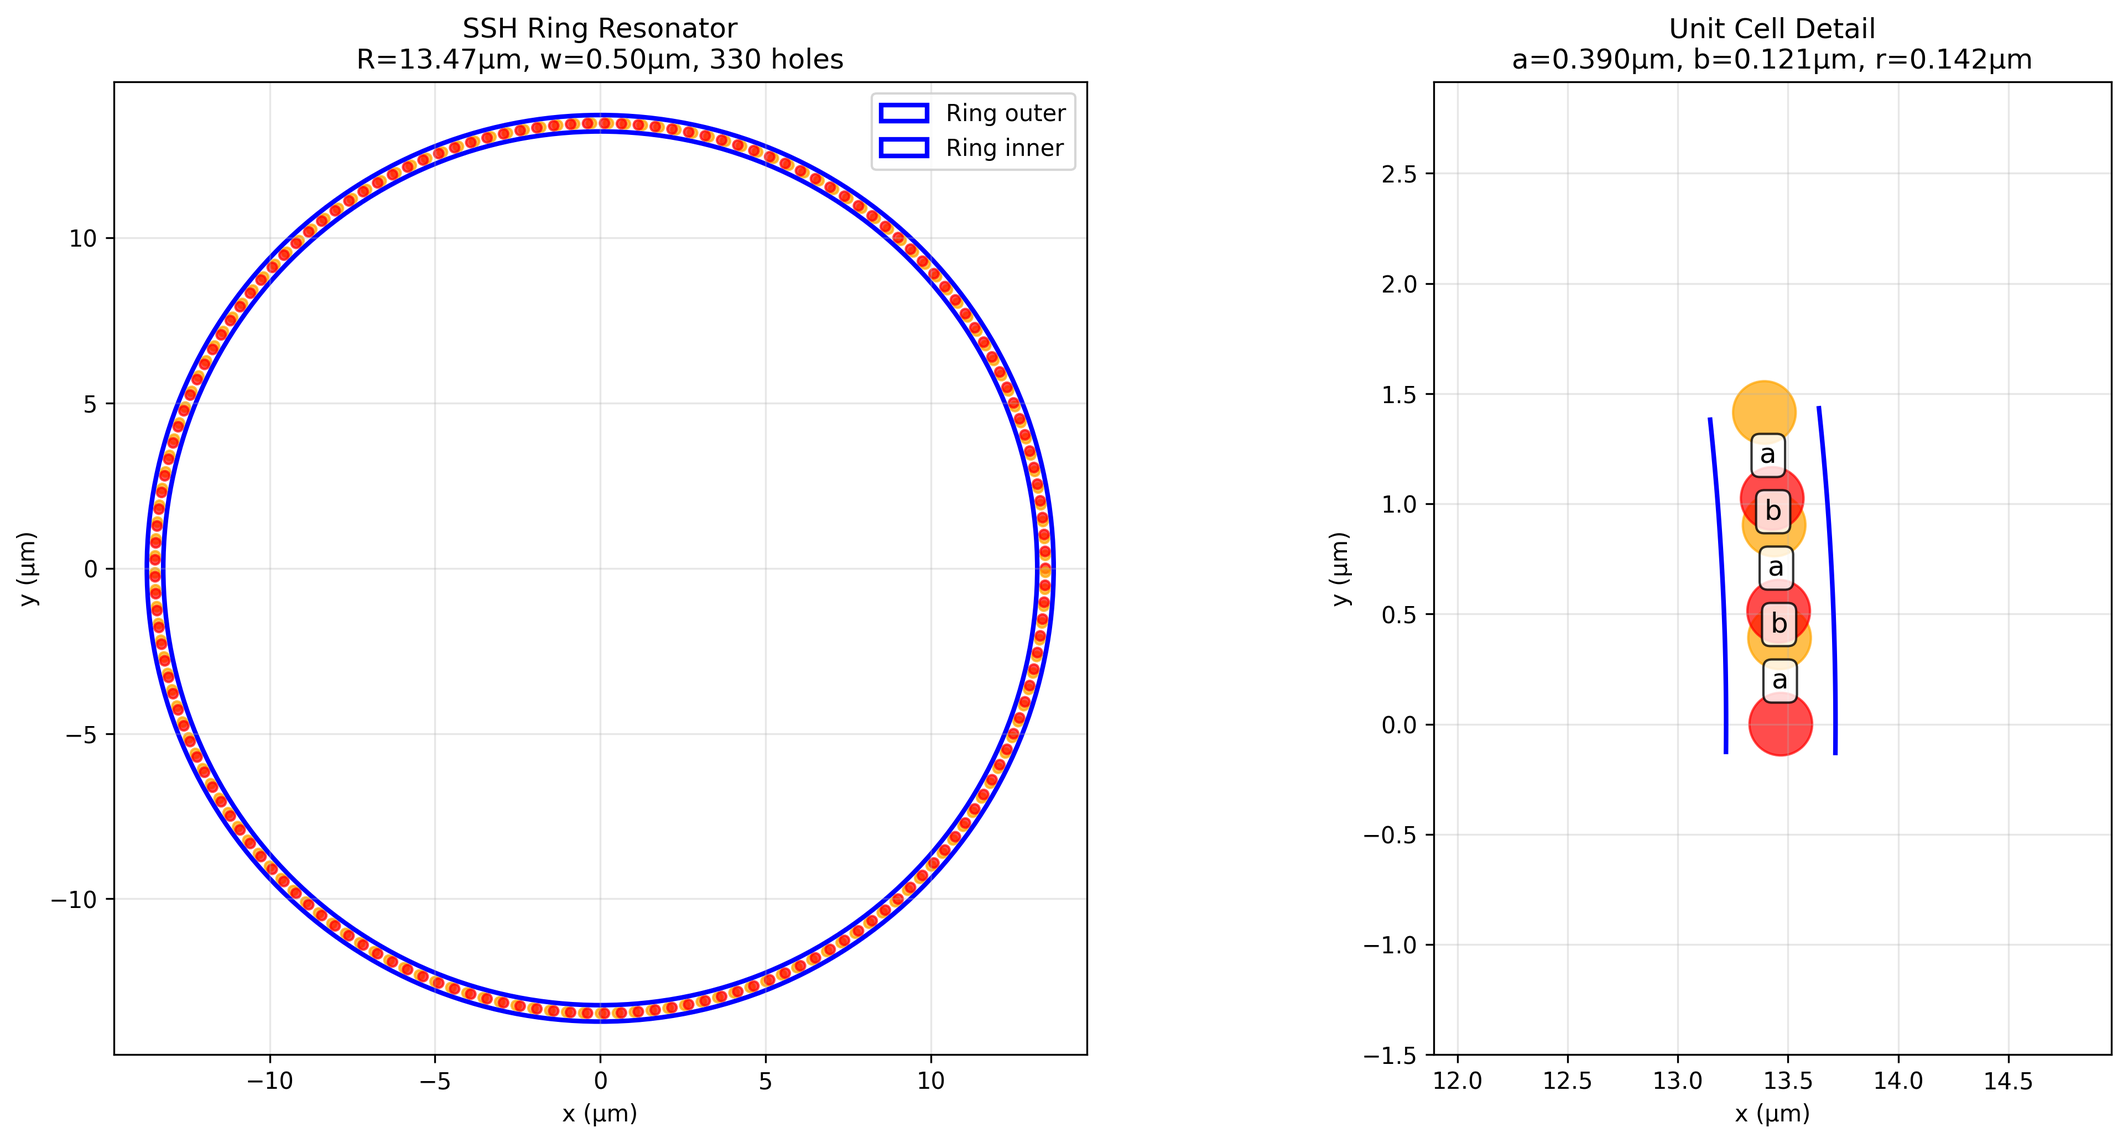
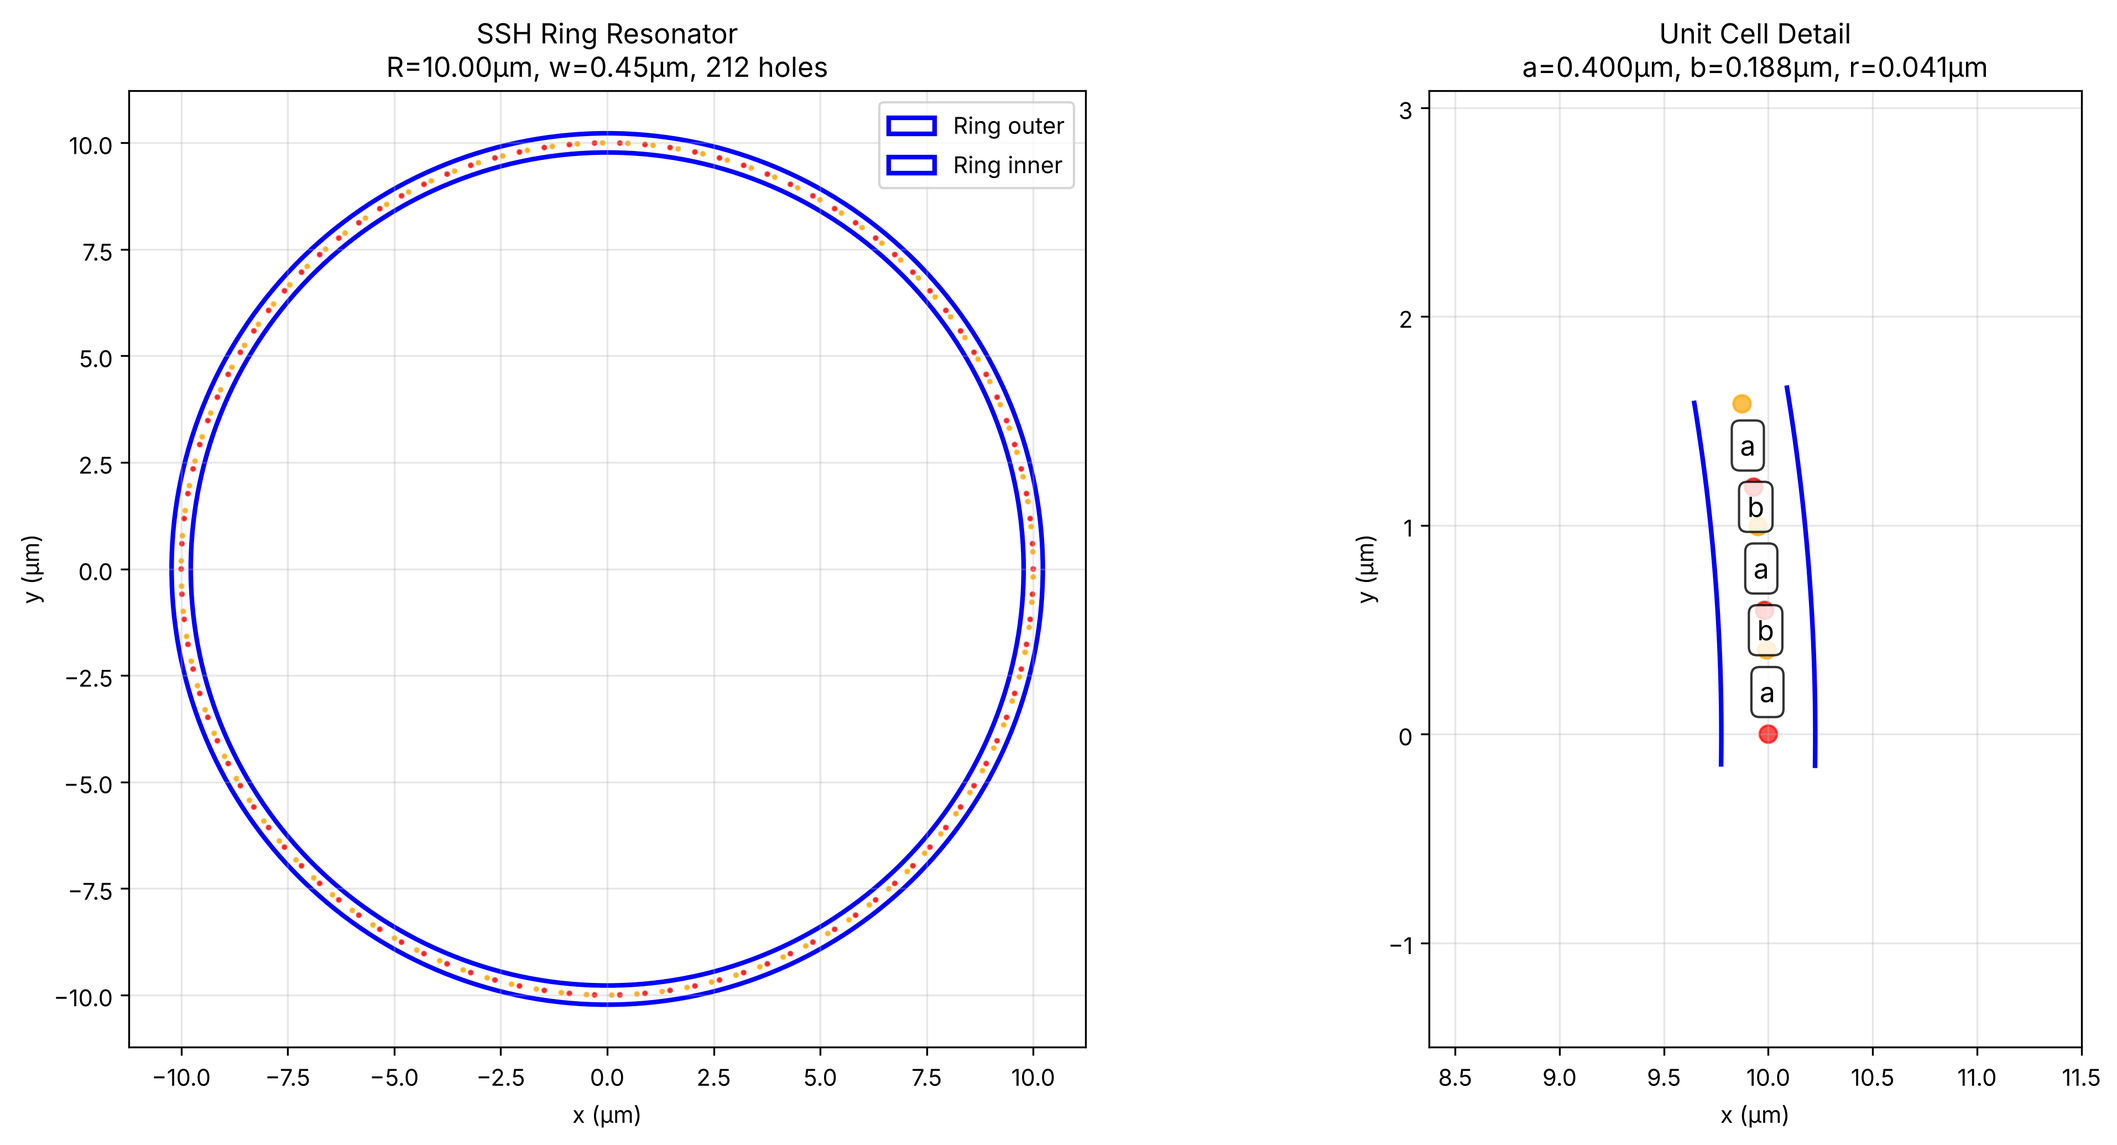
Rewrite optimization report from the regenerated runs
Replace the 2025 report, whose headline numbers came from an untracked
run with proxy objectives and overlapping-hole designs, with the full
seeded NSGA-III run and the 120-evaluation Bayesian run:

- Executive summary and the five recommended designs taken from
  results/multi_obj_20261016_015430 (with hole gap b - 2r per design)
- Geometry and convergence figures and numbers from
  results/run_20261016_015430
- docs/images regenerated: trade-off analysis, best-design geometry,
  optimization progress
- States that both optimizers use different analytical stand-in models
  (not MEEP), and flags the radiation term in evaluate_design_mock,
  which penalizes larger rings contrary to its comment
- Methodology now describes the settings actually used; references
  point at the docs/ siblings instead of broken ../ paths

Every quantitative claim was checked against the result files.

Claude-Session: https://claude.ai/code/session_01544Sc9gDdo8SZHhCwPpYMo

diff --git a/docs/OPTIMIZATION_REPORT.md b/docs/OPTIMIZATION_REPORT.md
@@ -1,12 +1,18 @@
 # Optimization Results Report
 
-> **Note (2026-10-10): these results predate two fixes and need regenerating.**
-> 1. Every design space used here let neighboring holes overlap (`b <= 2r`; `a` and `b` are center-to-center spacings), so the reported designs cannot be fabricated. Config bounds now keep a gap of at least the minimum feature size.
-> 2. The multi-objective run never received the simulator's full objectives, so the Q-factor, bandgap and mode volume below are proxies: Q = score + 20000, bandgap = a - b, mode volume = pi * r^2.
->
-> All values also come from the analytical mock model, not MEEP. See `docs/HANDOFF.md`.
+Results from multi-objective (NSGA-III) and single-objective (Bayesian) optimization of topological
+photonic crystal ring resonators, regenerated on 2026-10-16 at commit `92a9964`. All runs are seeded
+(`seed: 123`) and replay exactly.
 
-This report presents the results from multi-objective optimization of topological photonic crystal ring resonators using the NSGA-III algorithm.
+**What these numbers are.** No electromagnetic simulation is involved. Both optimizers score designs
+with analytical stand-in models in `src/simulation_wrapper.py`, and the two use **different** models:
+NSGA-III uses `evaluate_design_mock`, Bayesian optimization uses `_simulate_physics_model`. Their Q
+values are not on a common scale. The trade-offs below show how those models behave; real Q-factors
+need the MEEP integration (see `docs/HANDOFF.md`).
+
+Every design reported here is fabricable under the project's rule: `a` and `b` are center-to-center
+hole spacings, and the gaps `a − 2r`, `b − 2r` and the edge clearance `(w − 2r)/2` must exceed the
+0.05 µm minimum feature size.
 
 ---
 
@@ -24,20 +30,25 @@ This report presents the results from multi-objective optimization of topologica
 
 ## Executive Summary
 
-The framework successfully identified Pareto-optimal designs across four competing objectives:
+NSGA-III run on `configs/multi_objective_v1.yaml` (population 40, 50 generations): 2,000 designs
+evaluated, 1,867 feasible, 19 on the Pareto front (`results/multi_obj_20261016_015430/`).
 
-| Metric | Best Achieved | Design Type |
-|--------|---------------|-------------|
-| Q-factor | 55,700 | Maximum Q-Factor Design |
-| Robustness Ratio | 165.7 | Maximum Robustness Design |
-| Bandgap Size | 0.366 | Maximum Topological Protection |
-| Mode Volume | 0.008 | Minimum Mode Volume Design |
+| Metric | Best on Pareto front | Design |
+|--------|----------------------|--------|
+| Q-factor (mean over disorder) | 37,361 ± 766 | Maximum Q-factor |
+| Robustness ratio (Q / std) | 110.3 | Maximum robustness |
+| Bandgap size (model units) | 24.18 | Maximum topological protection |
+| Mode volume (model units) | 0.0940 | Minimum mode volume |
+
+No single design is best on more than one of these: the maximum-Q design has the smallest bandgap on
+the front, and the maximum-bandgap design has close to the lowest Q.
 
 ---
 
 ## Parameter Space Exploration
 
-The framework explored multiple design regimes to understand the relationship between design parameters and performance metrics.
+Six Bayesian optimization runs explore different design regimes. Details, the full results table and
+an explanation of what drives each score are in [EXPLORATION_RESULTS.md](EXPLORATION_RESULTS.md).
 
 <div align="center">
 
@@ -47,25 +58,18 @@ The framework explored multiple design regimes to understand the relationship be
 
 </div>
 
-*This visualization compares different exploration strategies across the design space. The six panels show:*
+- **Top row**: best score, dimerization ratio (a/b) and ring radius of each run's best design
+- **Bottom row**: best hole radius, best-so-far score per evaluation, and the best (a, b) pairs
 
-- **Top-left**: Best scores achieved by each exploration type
-- **Top-center**: Optimal dimerization ratios (a/b) for each strategy
-- **Top-right**: Optimal ring sizes discovered
-- **Bottom-left**: Optimal hole sizes for each regime
-- **Bottom-center**: Convergence comparison showing optimization progress over iterations
-- **Bottom-right**: Scatter plot of optimal (a, b) parameter combinations
-
-**Key Findings:**
-- Extreme dimerization and large ring configurations achieve the best objective scores
-- Strong correlation between dimerization ratio and Q-factor performance
-- Fabrication-limited designs show more constrained parameter choices
+**Key findings (stand-in model):**
+- The extreme-dimerization run scores highest (23,344, a/b = 4.62), more than 8,000 above any other run.
+- Ring radius goes to the lower or upper bound depending on the period a + b; the model's slope in R
+  changes sign near a + b ≈ 0.63 µm.
+- Hole radius and waveguide width barely affect the score within the fabricable range.
 
 ---
 
 ## Multi-Objective Trade-off Analysis
-
-The NSGA-III algorithm discovers Pareto-optimal trade-offs between competing physics objectives.
 
 <div align="center">
 
@@ -75,213 +79,141 @@ The NSGA-III algorithm discovers Pareto-optimal trade-offs between competing phy
 
 </div>
 
-*This six-panel visualization reveals the fundamental trade-offs in topological photonic crystal design:*
-
 ### Panel Descriptions
 
-| Panel | X-Axis | Y-Axis | Color Scale | Insight |
-|-------|--------|--------|-------------|---------|
-| Top-left | Average Q-factor | Q-factor Std Dev | Dimerization Ratio | Performance vs robustness trade-off |
-| Top-center | Bandgap Size | Average Q-factor | Ring Radius | Lattice vs radiation confinement |
-| Top-right | Mode Volume | Average Q-factor | Hole Radius | Purcell factor optimization |
-| Bottom-left | Dimerization Ratio | Robustness Ratio | - | Thesis baseline comparison |
-| Bottom-center | Ring Radius | Average Q-factor | - | Size vs performance relationship |
-| Bottom-right | Parameters (a,b,r,R,w) | Normalized Value | Design ID | Top 10 design parameter profiles |
+| Panel | X-Axis | Y-Axis | Color Scale | What it shows |
+|-------|--------|--------|-------------|---------------|
+| Top-left | Average Q-factor | Q-factor std dev | Dimerization ratio | Performance vs robustness |
+| Top-center | Bandgap size | Average Q-factor | Ring radius | Bandgap vs Q |
+| Top-right | Mode volume | Average Q-factor | Hole radius | Confinement vs Q |
+| Bottom-left | Dimerization ratio | Robustness ratio | - | Dashed line: a/b = 3 thesis "strong" design |
+| Bottom-center | Ring radius | Average Q-factor | - | Size vs performance |
+| Bottom-right | Parameters (a, b, r, R, w) | Normalized value | Design | Top 10 designs by composite score |
 
-**Key Observations:**
-- Higher Q-factors generally correlate with increased standard deviation (less robustness)
-- Larger bandgaps require sacrifice in Q-factor (fundamental physics trade-off)
-- Multiple Pareto-optimal designs exist for different application requirements
-- The dashed line in the bottom-left panel represents the thesis "strong" design baseline
+**Key observations (stand-in model):**
+- **Q and bandgap trade off directly.** The five designs with Q above 34,000 have bandgaps of
+  6.6–8.7; the five with bandgaps above 20 have Q of 15,300–17,200. This is built into `evaluate_design_mock`: Q
+  peaks when |a − b| ≈ 0.15 µm, while the bandgap grows linearly with |a − b|.
+- **Smaller rings score higher Q.** Three of the five highest-Q designs, including the maximum-Q
+  design, have rings of 6.9–7.1 µm, near the smallest on the front (6.8 µm). In the model, the radiation term is `1 − exp(−5/R)`, which falls as R grows, although
+  the code comment says it should improve with R. Treat ring-size conclusions from this run as an
+  artifact until the model is fixed or replaced by MEEP.
+- **Mode volume spans only 0.094–0.108** because the model ties it to hole area and holes are limited
+  to r ≤ 0.07 µm.
 
 ---
 
 ## Optimal Design Geometry
 
-The optimizer produces detailed geometric specifications for fabrication.
-
 <div align="center">
 
 ![Best Design Geometry](images/best_design_geometry.png)
 
-**Figure 3: SSH Ring Resonator Geometry**
+**Figure 3: Best design from the 120-evaluation strong-dimerization run**
 
 </div>
 
-*This visualization shows the physical structure of an optimized topological photonic crystal ring resonator:*
+From `results/run_20261016_015430/best_design_geometry_report.md`:
 
-### Left Panel: Full Ring Structure
-- **Ring radius (R)**: 13.47 micrometers
-- **Waveguide width (w)**: 0.50 micrometers
-- **Total holes**: 330 arranged in SSH pattern
-- Blue lines indicate inner and outer ring boundaries
-- Orange dots represent air holes in the photonic crystal
+| Property | Value |
+|----------|-------|
+| Ring radius R | 10.00 µm |
+| Waveguide width w | 0.450 µm |
+| Spacings a / b | 0.400 / 0.188 µm (a/b = 2.13) |
+| Hole radius r | 0.041 µm (diameter 0.083 µm) |
+| Total holes | 212 (106 unit cells) |
+| Gap between holes at spacing b | 0.105 µm |
+| Smallest printed feature | 0.083 µm (hole diameter) |
 
-### Right Panel: Unit Cell Detail
-- **Primary spacing (a)**: 0.390 micrometers
-- **Secondary spacing (b)**: 0.121 micrometers
-- **Hole radius (r)**: 0.142 micrometers
-- Alternating a-b-a-b pattern creates the SSH topological structure
-- Color gradient shows the dimerization pattern
-
-**Design Rationale:**
-The Su-Schrieffer-Heeger (SSH) model creates topologically protected edge states at the interface between regions with different dimerization. The asymmetry between spacings `a` and `b` determines the topological gap size.
+All fabrication constraints are satisfied. The SSH structure alternates spacings a and b around the
+ring; the difference between them sets the dimerization that opens the topological gap.
 
 ---
 
 ## Optimization Convergence
 
-The Bayesian optimization process efficiently explores the design space.
-
 <div align="center">
 
 ![Optimization Progress](images/optimization_plots.png)
 
-**Figure 4: Single-Objective Optimization Convergence**
+**Figure 4: Bayesian optimization of `strong_dimerization_v1` (120 evaluations)**
 
 </div>
 
-*This visualization tracks the optimization progress:*
+### Top panel: objective score
+- **Blue**: score of each evaluation; **red**: best score so far.
+- The best score, 12,890, first appears at evaluation 84; the remaining 35 evaluations do not improve it.
+- The 14 drops to 0 are designs whose holes violate the clearance rules, scored 0 without
+  simulating. Nine fall in the 20 random initial points; only five occur in the 100 guided
+  evaluations after them.
+- Scores include a constant −10,000 from the model's `r < 0.08 µm` penalty, which applies to every
+  design in the current bounds.
 
-### Top Panel: Objective Score Evolution
-- **Blue line**: Raw objective score at each iteration
-- **Red line**: Best score found so far (monotonically improving)
-- Best score of 20,468 reached at iteration 8, with no further improvement over the remaining 6 of 15 evaluations
-- This short run is a smoke test; the 120-evaluation run (`results/run_20250623_161133`) reaches 62,813
-
-### Bottom Panel: Parameter Evolution
-- Tracks how design parameters evolve during optimization
-- **R (gray)**: Ring radius stabilizes around 12-14 micrometers
-- **a, b, r, w**: Fine-tuned parameters with smaller magnitudes
-- Demonstrates exploration-exploitation balance of Bayesian optimization
+### Bottom panel: parameters
+- From evaluation 29 on, ring radius mostly sits at its lower bound, 10 µm (74 of 120 evaluations
+  overall), with occasional exploratory jumps to the 15 µm upper bound.
+- a, b, r and w are plotted on the same axis and are too small to read here; see
+  `results/run_20261016_015430/optimization_log.csv`.
 
 ---
 
 ## Design Recommendations
 
-Based on the Pareto-optimal solutions, the following designs are recommended for specific applications:
+Selected from the 19 Pareto-optimal designs by `run_multi_objective_optimization.py`
+(`results/multi_obj_20261016_015430/designs/design_recommendations.yaml`). R follows from
+2πR = N_cells × (a + b). "Gap" is b − 2r. Applications are the script's labels for each objective.
 
-### 1. Maximum Q-Factor Design
+| Design | Intended use | a (µm) | b (µm) | r (µm) | w (µm) | N_cells | R (µm) | Gap (µm) | Q (mean ± std) | Q/std | Bandgap | Mode volume |
+|---|---|---|---|---|---|---|---|---|---|---|---|---|
+| Maximum Q-factor | Sensing, frequency references | 0.335 | 0.194 | 0.066 | 0.609 | 84 | 7.06 | 0.061 | 37,361 ± 766 | 48.8 | 6.56 | 0.1025 |
+| Maximum robustness | High-volume manufacturing | 0.366 | 0.199 | 0.033 | 0.406 | 94 | 8.46 | 0.133 | 34,167 ± 310 | 110.3 | 8.67 | 0.1076 |
+| Maximum topological protection | Topological photonics research | 0.599 | 0.146 | 0.047 | 0.469 | 93 | 11.03 | 0.052 | 15,400 ± 866 | 17.8 | 24.18 | 0.1046 |
+| Minimum mode volume | Quantum optics, cavity QED | 0.446 | 0.194 | 0.036 | 0.488 | 80 | 8.15 | 0.122 | 18,030 ± 626 | 28.8 | 13.36 | 0.0940 |
+| Balanced (composite score) | General purpose | 0.587 | 0.159 | 0.033 | 0.469 | 89 | 10.58 | 0.093 | 15,297 ± 325 | 47.1 | 21.68 | 0.0999 |
 
-**Target Application:** Ultra-sensitive biological sensing, frequency references
-
-| Parameter | Value | Unit |
-|-----------|-------|------|
-| a (primary spacing) | 0.342 | micrometers |
-| b (secondary spacing) | 0.181 | micrometers |
-| r (hole radius) | 0.065 | micrometers |
-| R (ring radius) | 8.413 | micrometers |
-| w (waveguide width) | 0.615 | micrometers |
-| N_cells | 101 | - |
-
-**Performance:** Q = 55,700, Robustness Ratio = 68.5
-
----
-
-### 2. Maximum Robustness Design
-
-**Target Application:** Commercial manufacturing, mass production
-
-| Parameter | Value | Unit |
-|-----------|-------|------|
-| a (primary spacing) | 0.335 | micrometers |
-| b (secondary spacing) | 0.197 | micrometers |
-| r (hole radius) | 0.051 | micrometers |
-| R (ring radius) | 11.430 | micrometers |
-| w (waveguide width) | 0.638 | micrometers |
-| N_cells | 135 | - |
-
-**Performance:** Q = 54,023, Robustness Ratio = 165.7
-
----
-
-### 3. Maximum Topological Protection
-
-**Target Application:** Research into topological photonic phenomena
-
-| Parameter | Value | Unit |
-|-----------|-------|------|
-| a (primary spacing) | 0.547 | micrometers |
-| b (secondary spacing) | 0.181 | micrometers |
-| r (hole radius) | 0.065 | micrometers |
-| R (ring radius) | 9.974 | micrometers |
-| w (waveguide width) | 0.506 | micrometers |
-| N_cells | 86 | - |
-
-**Performance:** Q = 35,968, Bandgap = 0.366
-
----
-
-### 4. Minimum Mode Volume Design
-
-**Target Application:** Quantum optics, single-photon sources, cavity QED
-
-| Parameter | Value | Unit |
-|-----------|-------|------|
-| a (primary spacing) | 0.431 | micrometers |
-| b (secondary spacing) | 0.192 | micrometers |
-| r (hole radius) | 0.050 | micrometers |
-| R (ring radius) | 8.520 | micrometers |
-| w (waveguide width) | 0.644 | micrometers |
-| N_cells | 86 | - |
-
-**Performance:** Q = 39,410, Mode Volume = 0.008
-
----
-
-### 5. Balanced Performance Design
-
-**Target Application:** General-purpose telecommunications, integrated photonics
-
-| Parameter | Value | Unit |
-|-----------|-------|------|
-| a (primary spacing) | 0.390 | micrometers |
-| b (secondary spacing) | 0.197 | micrometers |
-| r (hole radius) | 0.051 | micrometers |
-| R (ring radius) | 11.292 | micrometers |
-| w (waveguide width) | 0.616 | micrometers |
-| N_cells | 121 | - |
-
-**Performance:** Q = 48,859, Robustness Ratio = 135.2
+The maximum-robustness design gives up little Q for its robustness: 91% of the best Q, the highest
+Q/std ratio and the largest hole gap of the five, though with a small bandgap (8.67). The balanced design's composite score
+normalizes each objective by its maximum, which rewards its large bandgap over its low Q.
 
 ---
 
 ## Methodology
 
-### Optimization Algorithm
+### Multi-objective optimization (`configs/multi_objective_v1.yaml`)
 
-- **Algorithm**: NSGA-III (Non-dominated Sorting Genetic Algorithm III)
-- **Population Size**: 20-60 individuals
-- **Generations**: 10-80 generations
-- **Reference Directions**: Das-Dennis partitioning for 4 objectives
+- **Algorithm**: NSGA-III, population 40, 50 generations, Das-Dennis reference directions
+  (4 partitions, 4 objectives), seed 123
+- **Variables**: a, b, r, w, N_cells, coupling gap, coupling width (R derived from N_cells)
+- **Objectives**: maximize mean Q, minimize Q standard deviation, maximize bandgap, minimize mode volume
+- **Constraints**: b − 2r and (w − 2r)/2 must exceed 0.05 µm, declared to pymoo so feasible designs
+  always dominate infeasible ones
+- **Disorder**: each design is evaluated at 8 hole-radius perturbations (5% standard deviation); the
+  stand-in model applies its own 8-run disorder loop inside each evaluation
 
-### Objective Functions
+### Single-objective optimization (six configs, see EXPLORATION_RESULTS.md)
 
-1. **Q-factor Maximization**: Average quality factor across disorder realizations
-2. **Robustness Maximization**: Minimize Q-factor standard deviation
-3. **Bandgap Maximization**: Topological gap size for edge state protection
-4. **Mode Volume Minimization**: Light confinement for enhanced Purcell factor
+- **Algorithm**: Gaussian-process Bayesian optimization (`gp_minimize`, `gp_hedge` acquisition)
+- **Score**: mean Q − 2 × Q standard deviation over 5–10 disorder runs (hole radius 4–8% std)
+- **Infeasible designs**: scored 0 without simulating
 
-### Physics Constraints
+### Reproduce
 
-- Minimum feature size: 0.08 micrometers (fabrication limit)
-- Maximum dimerization ratio: 8.0 (physical stability)
-- Ring constraint: 2*pi*R = N_cells * (a + b)
-
-### Disorder Modeling
-
-- Hole radius variation: 6% standard deviation
-- Sidewall roughness: 8nm RMS
-- Hole position error: 5nm standard deviation
-- Statistical sampling: 8-12 disorder realizations per design
+```bash
+python run_multi_objective_optimization.py --config configs/multi_objective_v1.yaml
+python run_optimization.py --config configs/strong_dimerization_v1.yaml
+python src/analysis.py results/run_<TIMESTAMP>
+python visualize_best_design.py results/run_<TIMESTAMP>
+python compare_explorations.py
+```
 
 ---
 
 ## References
 
-- [ADVANCED_FRAMEWORK_SUMMARY.md](../ADVANCED_FRAMEWORK_SUMMARY.md): Technical framework documentation
-- [EXPLORATION_RESULTS.md](../EXPLORATION_RESULTS.md): Detailed exploration findings
-- [README.md](../README.md): Project overview and quick start guide
+- [ADVANCED_FRAMEWORK_SUMMARY.md](ADVANCED_FRAMEWORK_SUMMARY.md): technical framework documentation
+- [EXPLORATION_RESULTS.md](EXPLORATION_RESULTS.md): single-objective exploration results
+- [HANDOFF.md](HANDOFF.md): known issues, including the stand-in models' limitations
+- [README.md](../README.md): project overview and quick start
 
 ---
 
